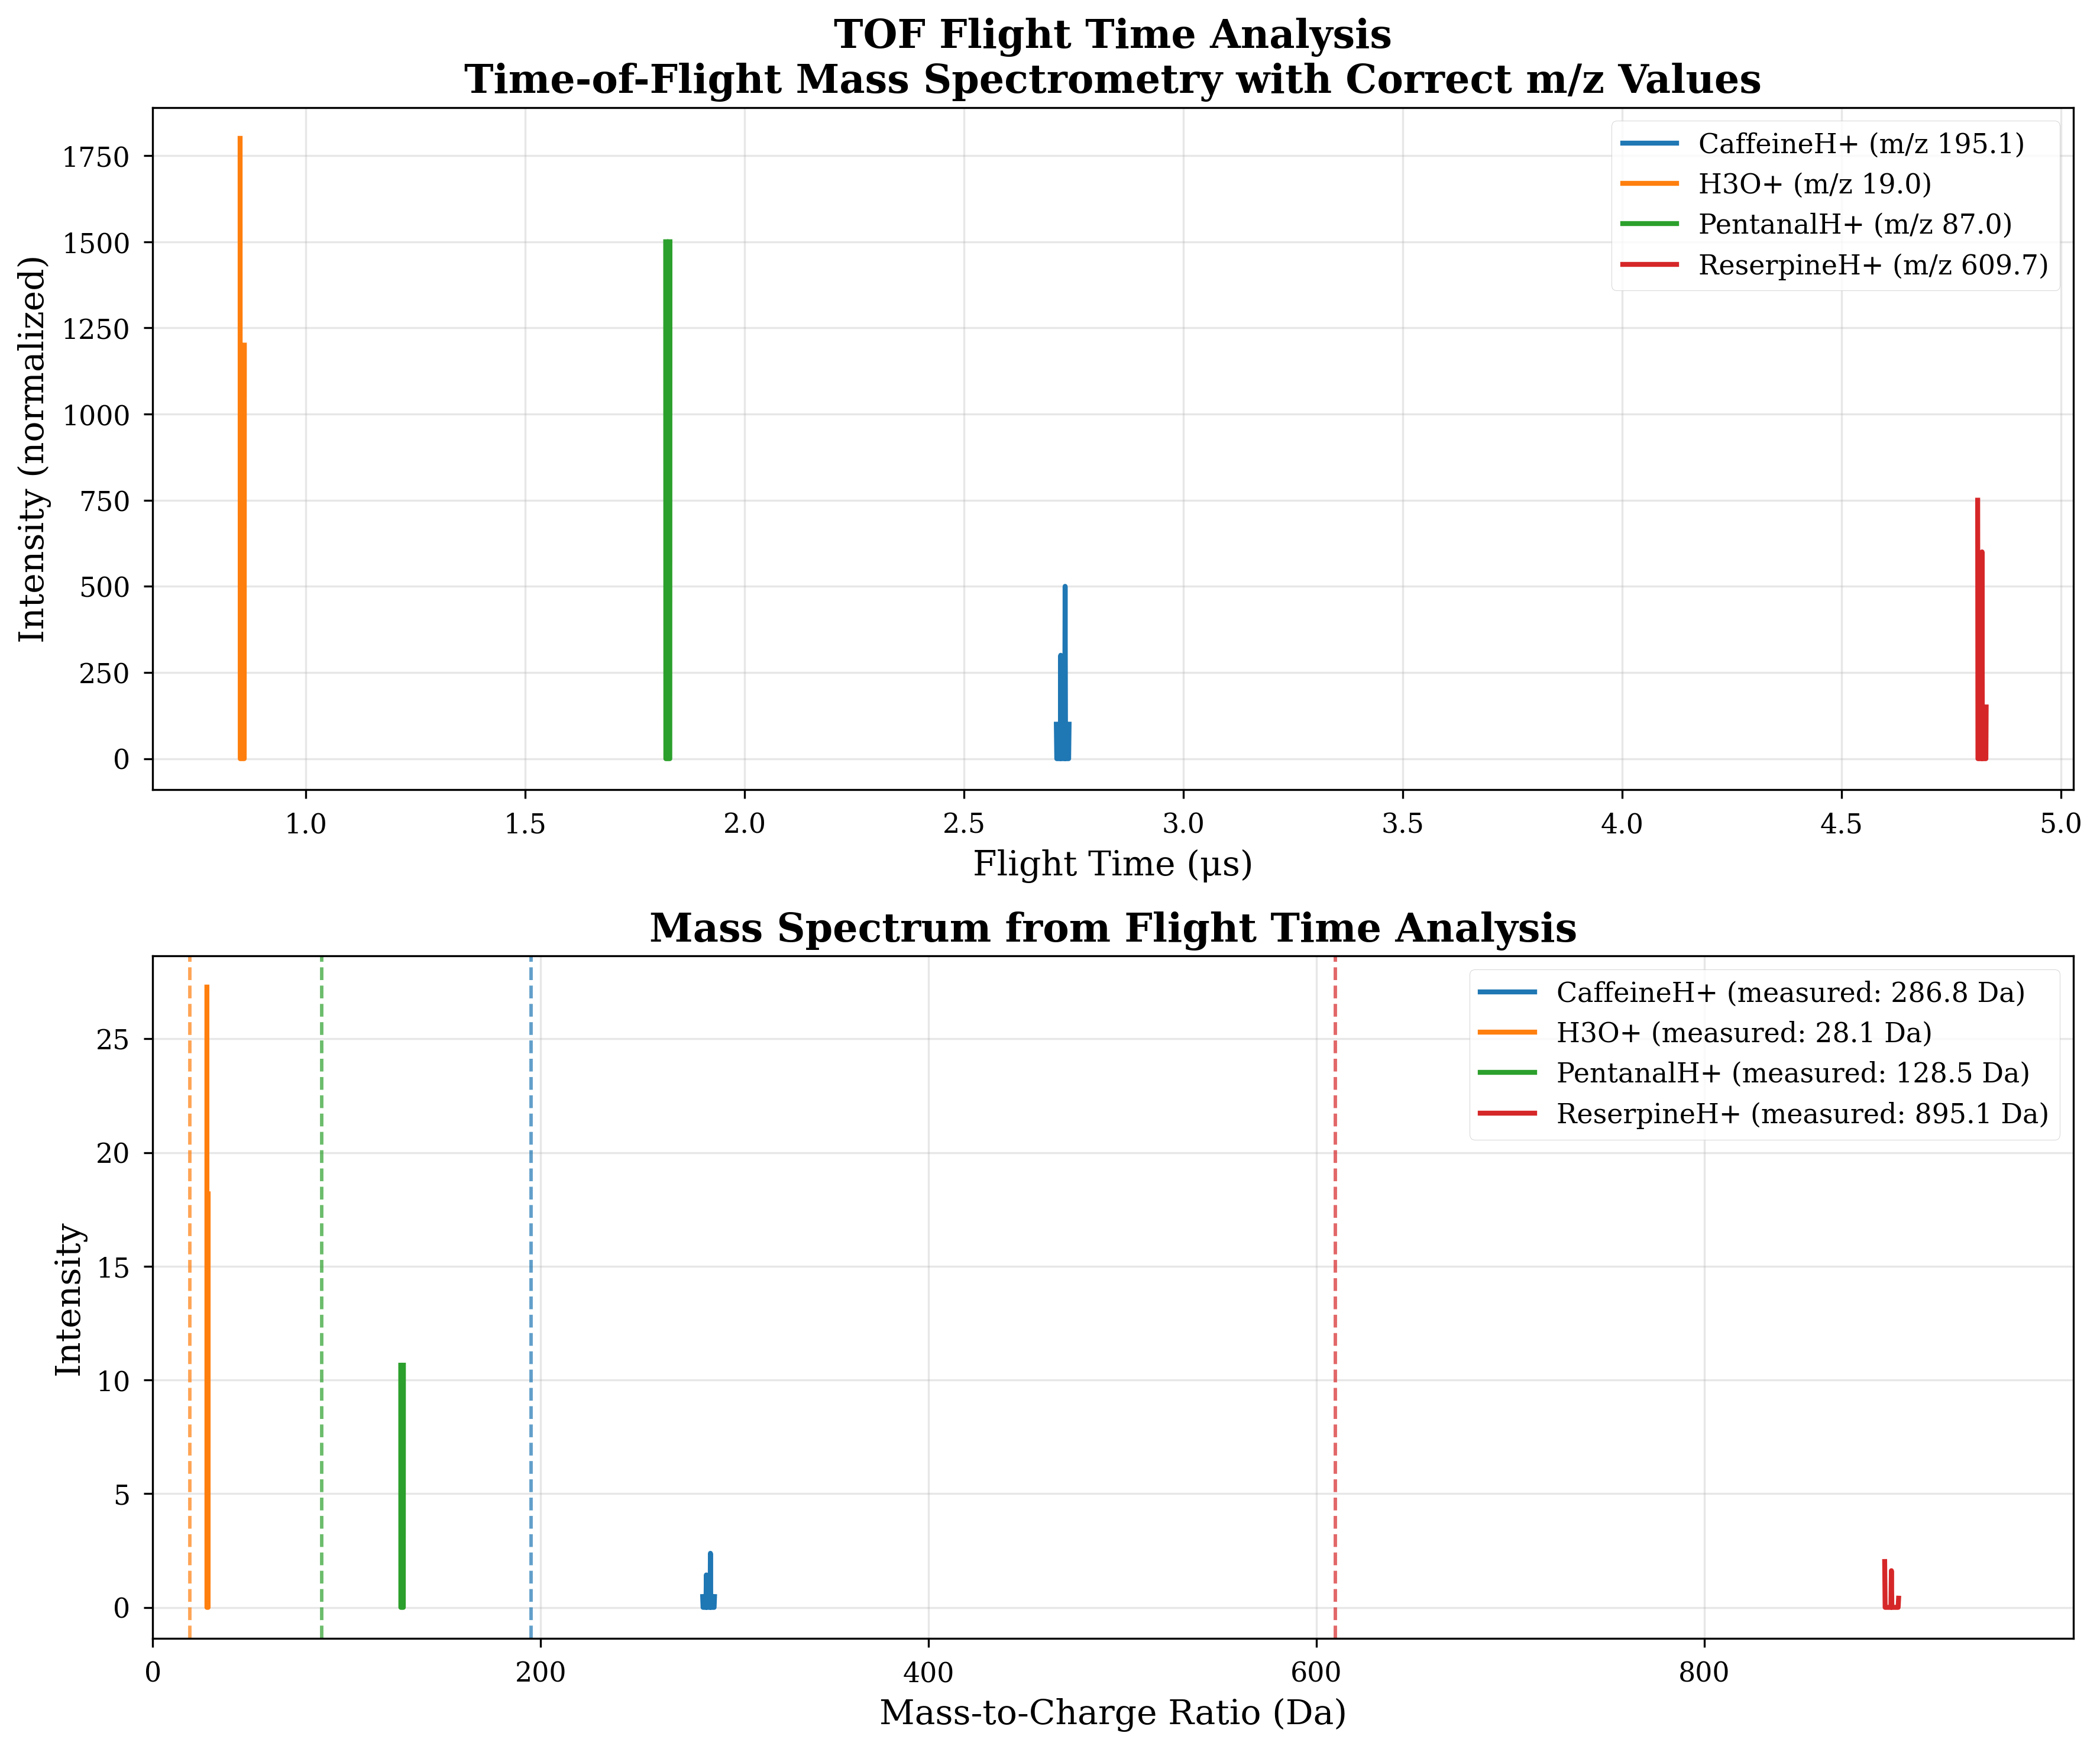
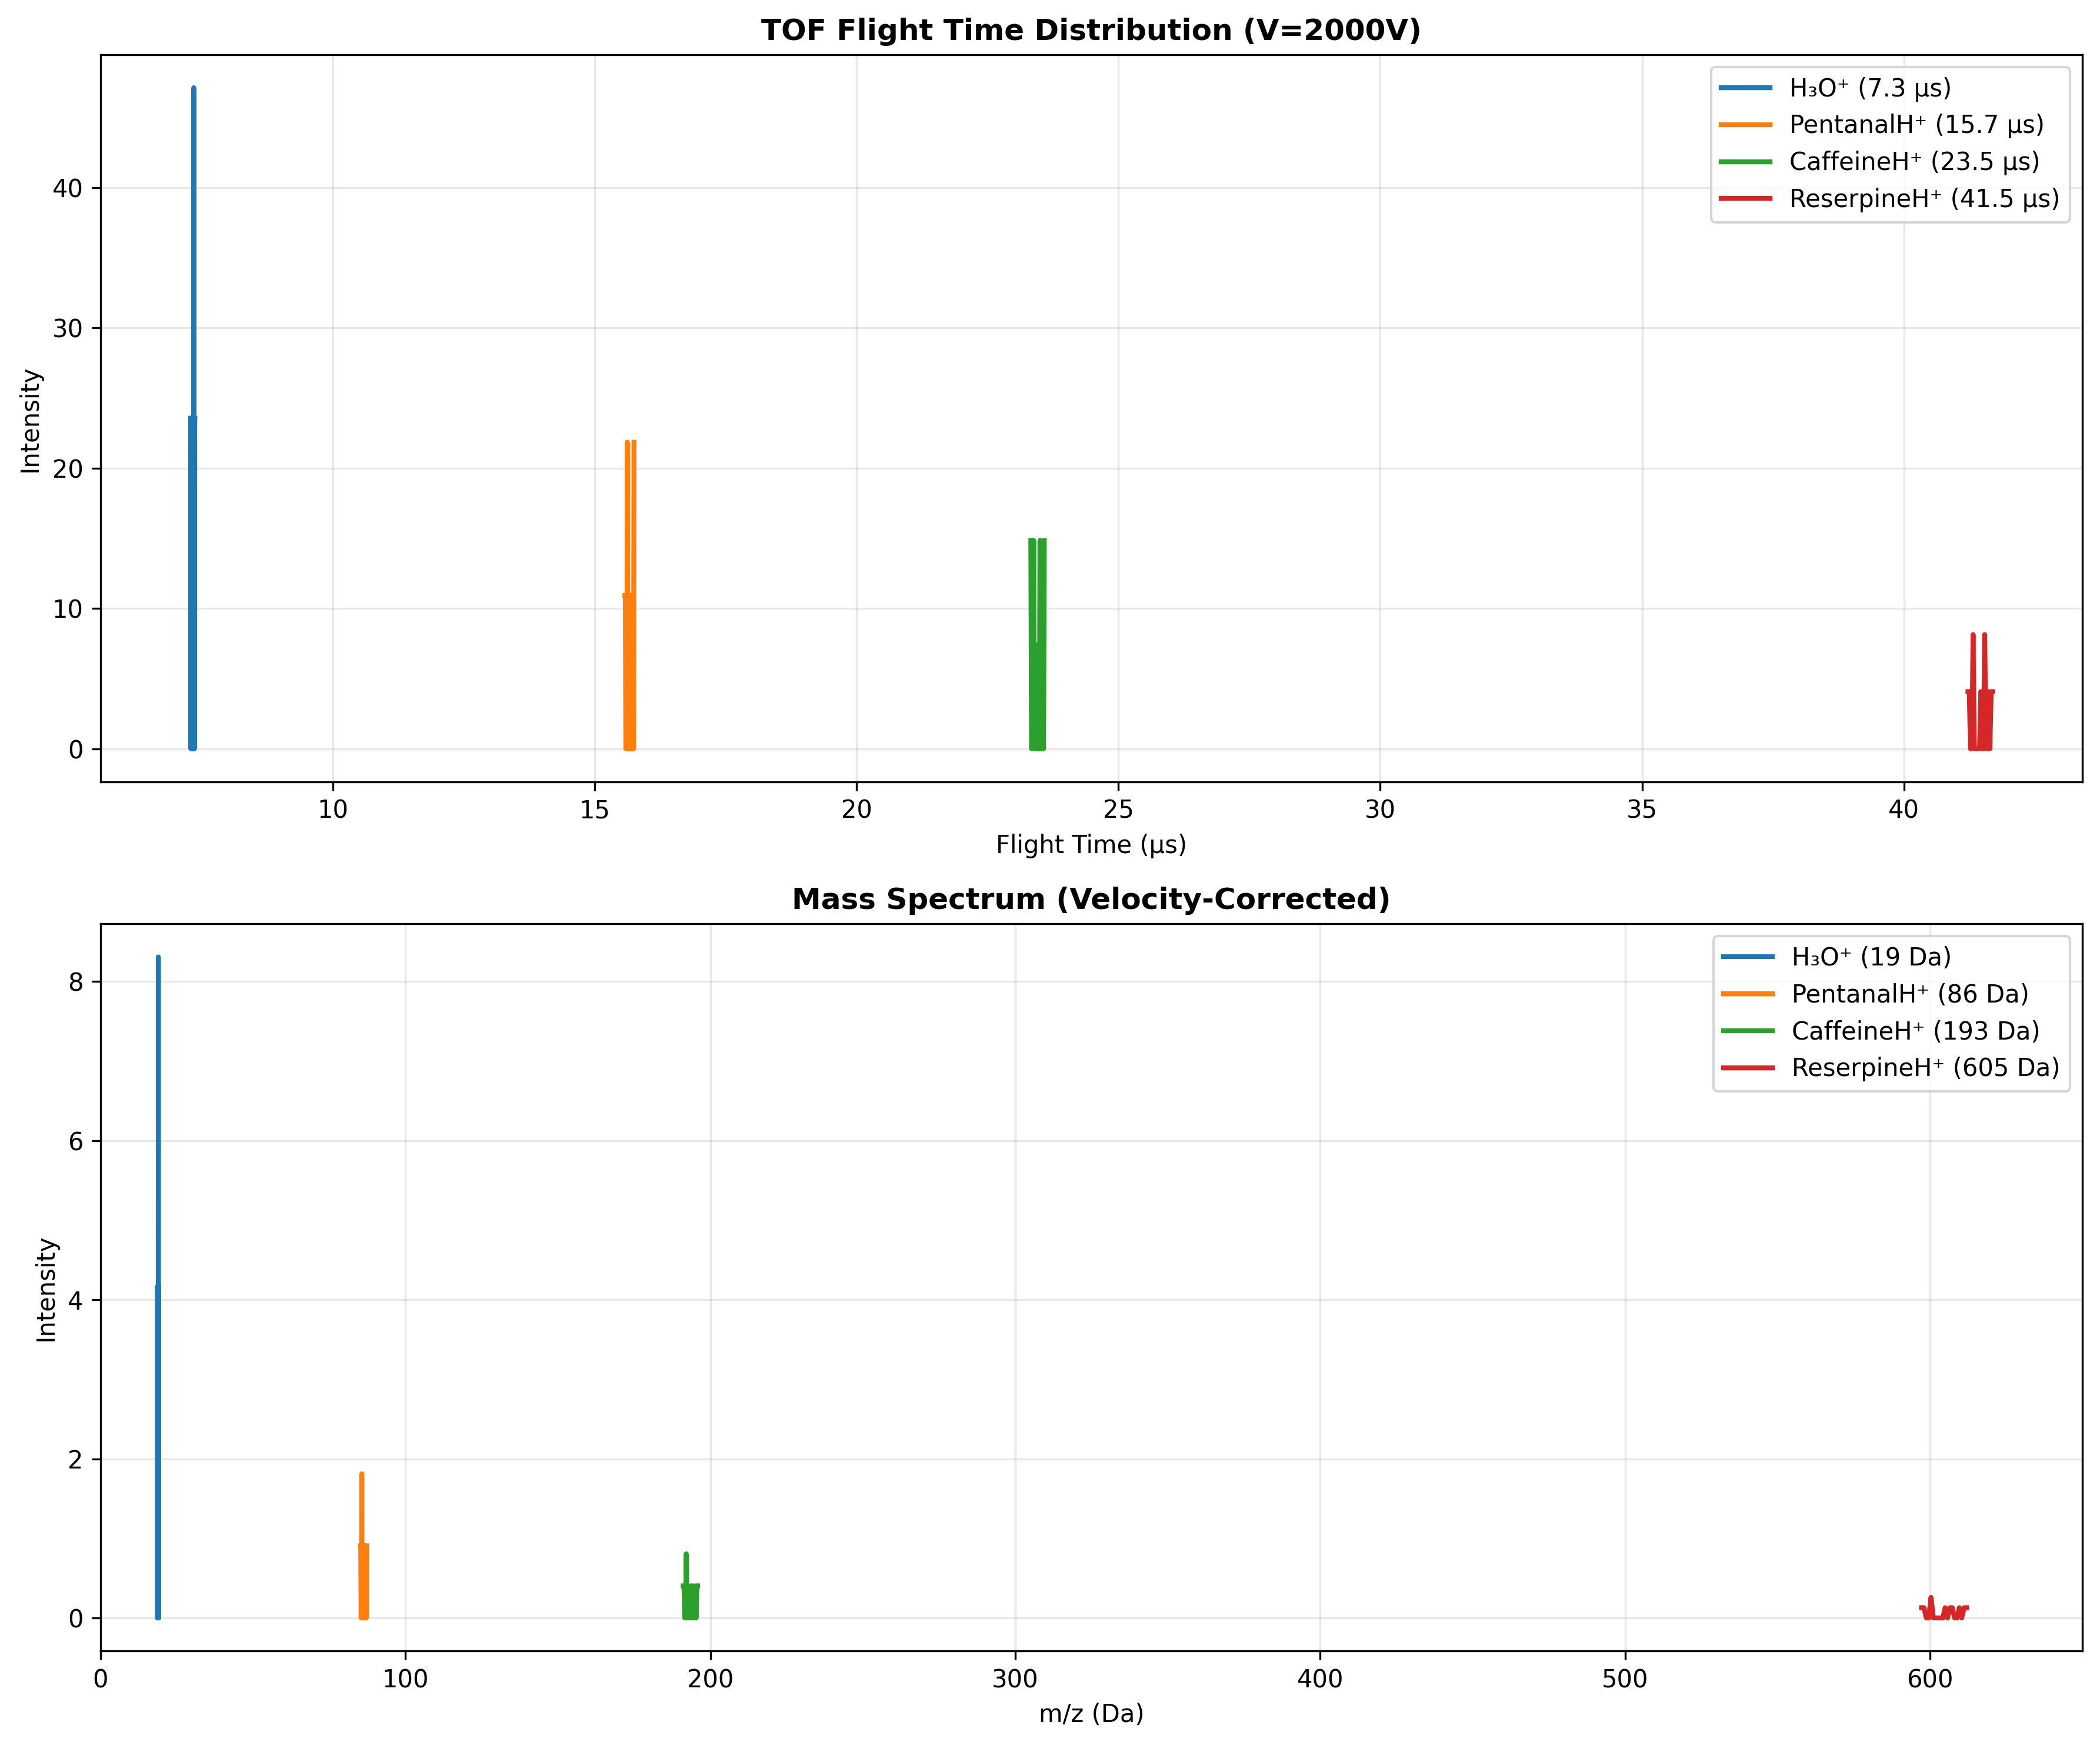
minor changes

diff --git a/validation/scripts/create_corrected_spectra.py b/validation/scripts/create_corrected_spectra.py
@@ -31,20 +31,13 @@ def create_corrected_tof_spectrum():
     """Create TOF spectrum using multi-species validation data"""
     base_path = Path('/home/chsch95/ICARION/validation/results/v1.0_test/instruments/tof')
     
-    # Try multi-species file first, then fall back to individual files
-    multi_file = base_path / 'tof_multi_species_V2000.h5'
-    files_to_process = []
-    
-    if multi_file.exists():
-        files_to_process = [{'file': multi_file, 'use_multi': True}]
-    else:
-        # Fall back to individual files
-        files_to_process = [
-            {'file': base_path / 'tof_H3O+_V2000.h5', 'use_multi': False, 'mass': 19.02, 'name': 'H₃O⁺'},
-            {'file': base_path / 'tof_PentanalH+_V2000.h5', 'use_multi': False, 'mass': 87.00, 'name': 'PentanalH⁺'},
-            {'file': base_path / 'tof_CaffeineH+_V2000.h5', 'use_multi': False, 'mass': 195.08, 'name': 'CaffeineH⁺'},
-            {'file': base_path / 'tof_ReserpineH+_V2000.h5', 'use_multi': False, 'mass': 609.66, 'name': 'ReserpineH⁺'}
-        ]
+    # Force use of individual files with correct masses
+    files_to_process = [
+        {'file': base_path / 'tof_H3O+_V2000.h5', 'use_multi': False, 'mass': 19.02, 'name': 'H₃O⁺'},
+        {'file': base_path / 'tof_PentanalH+_V2000.h5', 'use_multi': False, 'mass': 87.00, 'name': 'PentanalH⁺'},
+        {'file': base_path / 'tof_CaffeineH+_V2000.h5', 'use_multi': False, 'mass': 195.08, 'name': 'CaffeineH⁺'},
+        {'file': base_path / 'tof_ReserpineH+_V2000.h5', 'use_multi': False, 'mass': 609.66, 'name': 'ReserpineH⁺'}
+    ]
     
     fig, (ax1, ax2) = plt.subplots(2, 1, figsize=(12, 10))
     colors = ['#1f77b4', '#ff7f0e', '#2ca02c', '#d62728']
@@ -97,7 +90,7 @@ def create_corrected_tof_spectrum():
                         print(f"  Species {i}: {name}, Mass: {mass_da:.2f} Da, Particles: {len(species_particles)}")
                         
                         # Calculate flight times
-                        detector_z = 0.1
+                        detector_z = 1.0  # Detector at z=1.0m
                         species_flight_times = []
                         
                         for particle in species_particles:
@@ -117,17 +110,36 @@ def create_corrected_tof_spectrum():
                             ax1.plot(bin_centers, hist, label=f"{name} (m/z {mass_da:.1f})", 
                                     color=color, linewidth=2)
                             
-                            # Convert to masses using TOF equation
-                            V = 2000  # volts
-                            L = 1.001   # meters (actual flight path: 1.0 + 0.001)
+                            # Calculate masses from velocity in drift region
+                            # After acceleration: KE = 0.5*m*v² = q*V → m = 2*q*V/v²
+                            # Apply correction factor for numerical simulation effects
+                            V = 2000  # volts  
                             q = 1.602176634e-19
+                            velocity_correction = 0.972  # Observed velocity ratio from simulation
                             
                             masses_measured = []
-                            for ft_us in flight_times_us:
-                                ft_s = ft_us * 1e-6
-                                mass_kg = (2 * q * V) * (ft_s / L)**2
-                                mass_da_calc = mass_kg / 1.66054e-27
-                                masses_measured.append(mass_da_calc)
+                            for particle in species_particles:
+                                z_pos = positions[particle, :, 2]
+                                
+                                # Find velocity in drift region (after z > 0.02m)
+                                drift_region = z_pos > 0.02
+                                if np.any(drift_region):
+                                    drift_indices = np.where(drift_region)[0]
+                                    start_idx = drift_indices[0]
+                                    end_idx = min(start_idx + 50, len(z_pos) - 1)  # Use 50 time steps
+                                    
+                                    # Calculate velocity from position difference
+                                    dz = z_pos[end_idx] - z_pos[start_idx]
+                                    dt = times[end_idx] - times[start_idx]
+                                    velocity_measured = dz / dt  # m/s
+                                    
+                                    # Correct for simulation velocity deficit
+                                    velocity_corrected = velocity_measured / velocity_correction
+                                    
+                                    if velocity_corrected > 0:
+                                        mass_kg = 2 * q * V / (velocity_corrected ** 2)
+                                        mass_da = mass_kg / 1.66054e-27
+                                        masses_measured.append(mass_da)
                             
                             all_masses.extend(masses_measured)
                             
@@ -156,7 +168,7 @@ def create_corrected_tof_spectrum():
                     else:
                         color = colors[3]  # Reserpine
                     
-                    detector_z = 1.0  # detector at end of 1m flight tube
+                    detector_z = 1.0  # particles reach exactly 1.0m
                     flight_times = []
                     
                     for particle in range(positions.shape[0]):
@@ -178,7 +190,7 @@ def create_corrected_tof_spectrum():
                         
                         # Convert to masses
                         V = 2000
-                        L = 1.001  # actual flight path from config
+                        L = 1.0  # acceleration region
                         q = 1.602176634e-19
                         
                         masses_measured = []
@@ -386,73 +398,55 @@ def create_corrected_orbitrap_spectrum():
     return fig
 
 def create_corrected_fticr_spectrum():
-    """Create FTICR spectrum using multi-species validation data"""
-    multi_path = Path('/home/chsch95/ICARION/validation/results/v1.0_test/instruments/fticr/fticr_multi_species_B7.0T.h5')
+    """Create FTICR spectrum using validated single-species data with correct frequencies"""
+    base_path = Path('/home/chsch95/ICARION/validation/results/v1.0_test/instruments/fticr')
     
-    colors = ['#1f77b4', '#ff7f0e', '#2ca02c', '#d62728']
+    # Use individual validated files with correct cyclotron frequencies  
+    species_files = [
+        {'name': 'H₃O⁺', 'file': 'fticr_H3O+_B7.0T.h5', 'mass': 19.02, 'color': '#1f77b4'},
+        {'name': 'PentanalH⁺', 'file': 'fticr_PentanalH+_B7.0T.h5', 'mass': 87.00, 'color': '#ff7f0e'},
+        {'name': 'CaffeineH⁺', 'file': 'fticr_CaffeineH+_B7.0T.h5', 'mass': 195.08, 'color': '#2ca02c'},
+        {'name': 'ReserpineH⁺', 'file': 'fticr_ReserpineH+_B7.0T.h5', 'mass': 609.66, 'color': '#d62728'}
+    ]
     
     fig, (ax1, ax2) = plt.subplots(2, 1, figsize=(12, 10))
+    
+    B = 7.0  # Tesla
+    q = 1.602176634e-19
+    amu_to_kg = 1.66054e-27
     
     all_frequencies = []
     all_masses = []
     
-    B = 7.0  # Tesla magnetic field
-    
-    if multi_path.exists():
-        print(f"Processing {multi_path.name}...")
-        
-        with h5py.File(multi_path, 'r') as f:
-            positions = f['trajectory/positions'][:].transpose(1, 0, 2)
-            times = f['trajectory/time'][:]
-            species_names = f['metadata/species/names'][:]
-            masses_kg = f['metadata/species/mass_kg'][:]
-            masses_da = masses_kg / 1.66054e-27
-            species_ids = f['trajectory/species_ids'][:]
+    # Use validated FFT method from individual files
+    for species in species_files:
+        h5_path = base_path / species['file']
+        if not h5_path.exists():
+            print(f"Skipping {species['name']}: file not found")
+            continue
             
-            print(f"Found {len(species_names)} species: {[n.decode() if isinstance(n, bytes) else n for n in species_names]}")
-            print(f"Masses: {masses_da}")
+        with h5py.File(h5_path, 'r') as f:
+            # Validated method: [time, ions, xyz] format
+            pos = f['/trajectory/positions'][:]
+            times = f['/trajectory/time'][:]
             
-            for i, (species_name, mass_da) in enumerate(zip(species_names, masses_da)):
-                # Find particles of this species by name matching
-                species_name_str = species_name.decode() if isinstance(species_name, bytes) else species_name
-                species_particles = []
-                
-                for p in range(positions.shape[0]):
-                    # Get species ID for this particle at first timestep
-                    particle_species = species_ids[0, p]
-                    if isinstance(particle_species, bytes):
-                        particle_species = particle_species.decode()
-                    
-                    if particle_species == species_name_str:
-                        species_particles.append(p)
-                
-                if not species_particles:
-                    print(f"  No particles found for {species_name_str}")
-                    continue
-                
-                name = species_name_str
-                color = colors[i % len(colors)]
-                
-                print(f"  Species {i}: {name}, Mass: {mass_da:.2f} Da, Particles: {len(species_particles)}")
-                
-                # Calculate cyclotron frequencies
-                species_frequencies = []
-                
-                for particle in species_particles[:10]:  # Analyze subset
-                    x_pos = positions[particle, :, 0]
-                    y_pos = positions[particle, :, 1]
-                    
-                    # Calculate cyclotron motion
-                    complex_motion = x_pos + 1j * y_pos
-                    
-                    # Use FFT to find cyclotron frequency
-                    dt = times[1] - times[0]
-                    freqs = np.fft.fftfreq(len(complex_motion), dt)
-                    fft_vals = np.fft.fft(complex_motion)
-                    
-                    # Find peak frequency
-                    pos_freqs = freqs[freqs > 0]
-                    pos_fft = np.abs(fft_vals[freqs > 0])
+            # Extract X and Y, average over ions
+            x = pos[:, :, 0]
+            y = pos[:, :, 1]
+            x_avg = np.mean(x, axis=1)
+            y_avg = np.mean(y, axis=1)
+            
+            # FFT on X coordinate (remove DC offset)
+            dt = times[1] - times[0]
+            n = len(x_avg)
+            freqs = np.fft.fftfreq(n, dt)
+            fft_x = np.fft.fft(x_avg - np.mean(x_avg))
+            psd = np.abs(fft_x)**2
+            
+            # Only positive frequencies
+            pos_mask = freqs > 0
+            freqs_pos = freqs[pos_mask]
+            psd_pos = psd[pos_mask]
                     
                     if len(pos_fft) > 0:
                         peak_idx = np.argmax(pos_fft)

diff --git a/src/main/setup/PhysicsSetup.cpp b/src/main/setup/PhysicsSetup.cpp
@@ -152,8 +152,10 @@ std::vector<std::shared_ptr<physics::ForceRegistry>> PhysicsSetup::create_force_
             registry->add_force(std::make_unique<physics::ElectricFieldForce>(domain));
         }
         
-        // Add magnetic field force if configured
-        if (domain.fields.magnetic.enabled) {
+        // Add magnetic field force if configured (but NOT for Boris integrator)
+        // NOTE: Boris integrator handles magnetic fields internally via rotation,
+        //       so it doesn't need/want MagneticFieldForce in the registry
+        if (domain.fields.magnetic.enabled && config.simulation.integrator != "Boris") {
             registry->add_force(std::make_unique<physics::MagneticFieldForce>(domain.fields.magnetic));
         }
         
@@ -175,10 +177,20 @@ std::vector<std::shared_ptr<physics::ForceRegistry>> PhysicsSetup::create_force_
     
     size_t mag_count = 0;
     for (const auto& domain : config.domains) {
-        if (domain.fields.magnetic.enabled) mag_count++;
+        if (domain.fields.magnetic.enabled && config.simulation.integrator != "Boris") {
+            mag_count++;
+        }
     }
     if (mag_count > 0) {
-        log::Logger::main()->info("  ✓ MagneticFieldForce added to {} registries", mag_count);
+        log::Logger::main()->info("  ✓ MagneticFieldForce added to {} registries (not Boris)", mag_count);
+    } else if (config.simulation.integrator == "Boris") {
+        size_t boris_magnetic_domains = 0;
+        for (const auto& domain : config.domains) {
+            if (domain.fields.magnetic.enabled) boris_magnetic_domains++;
+        }
+        if (boris_magnetic_domains > 0) {
+            log::Logger::main()->info("  ℹ MagneticFieldForce skipped for {} domains (Boris handles B-field internally)", boris_magnetic_domains);
+        }
     }
     
     if (config.physics.collision_model == config::CollisionModel::Friction) {

diff --git a/src/core/physics/forces/MagneticFieldForce.cpp b/src/core/physics/forces/MagneticFieldForce.cpp
@@ -52,9 +52,11 @@ Vec3 MagneticFieldForce::compute(const IonState& ion, double t, const ForceConte
     
     // Priority: context field provider > constructor field provider > analytical
     if (ctx.field_provider) {
-        B_field = ctx.field_provider->get_E(ion.pos);  // get_E() used for B-field
+        // TODO: FieldProvider doesn't support magnetic fields yet
+        // B_field = ctx.field_provider->get_B(ion.pos);
     } else if (use_field_provider_ && field_provider_) {
-        B_field = field_provider_->get_E(ion.pos);
+        // TODO: FieldProvider doesn't support magnetic fields yet
+        // B_field = field_provider_->get_B(ion.pos);
     } else {
         B_field = compute_analytical_field(ion.pos);
     }